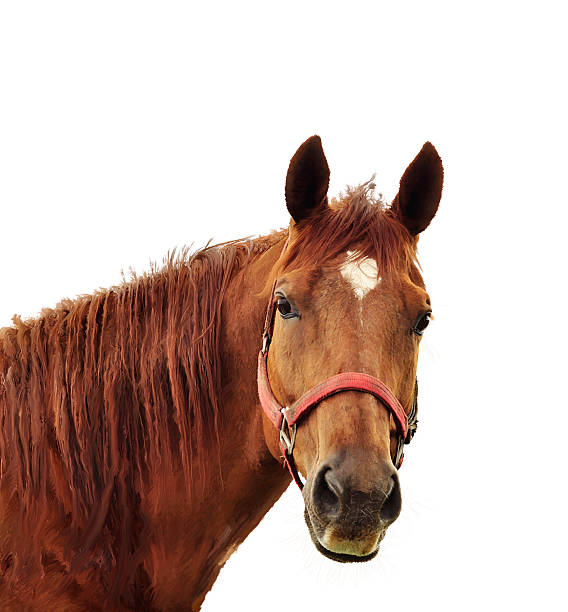
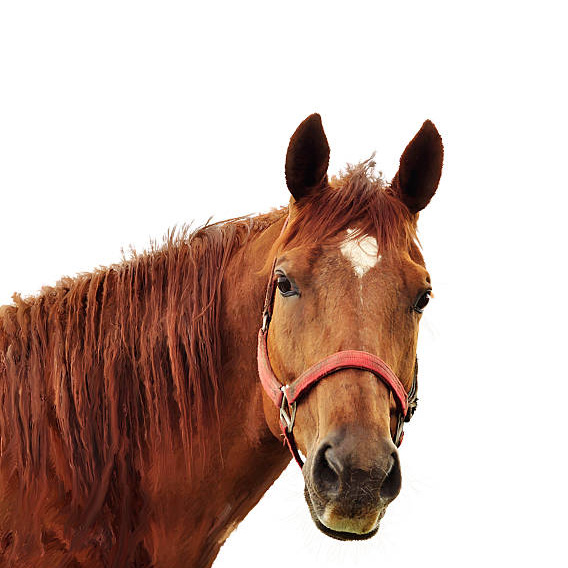
2025-12-11

diff --git a/css/style.css b/css/style.css
@@ -39,6 +39,7 @@ background-color: chocolate;
 .aside1{
 grid-area: as1;
 
+
 background-color: darkgreen;
 
 }
@@ -56,6 +57,11 @@ background-color: brown;
 }
 
 .bild1{
+    display:flex;
+    justify-self: center;
+    margin: 10px;
+    
+
     height: 30%;
     width: 60%;
     border-radius: 100%;
